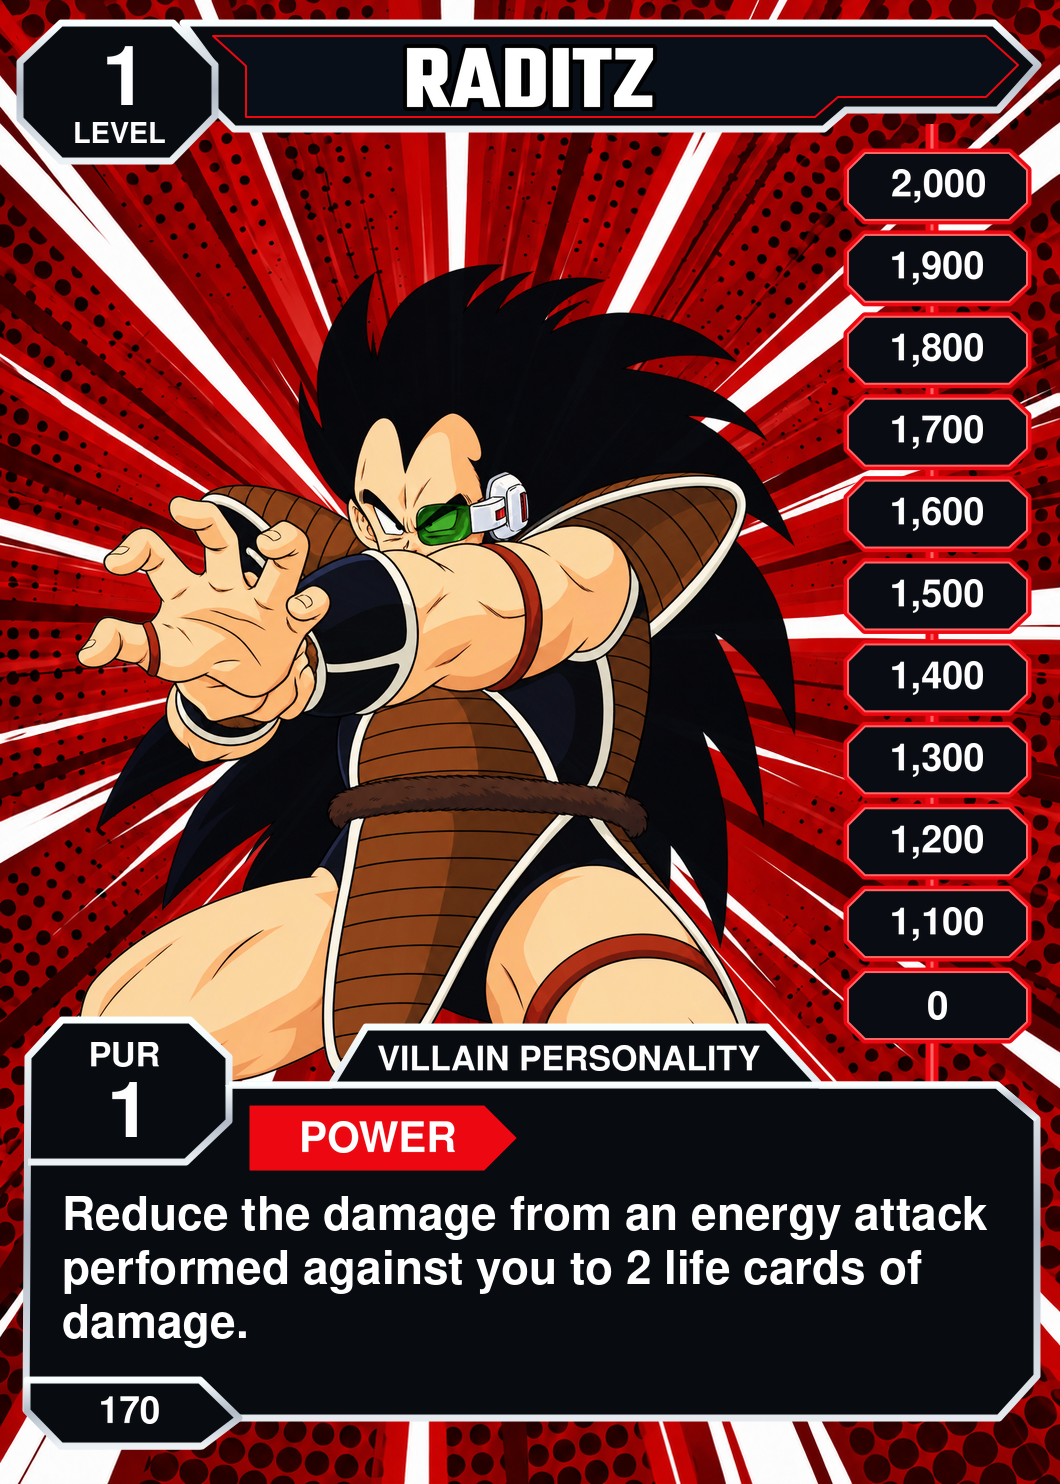
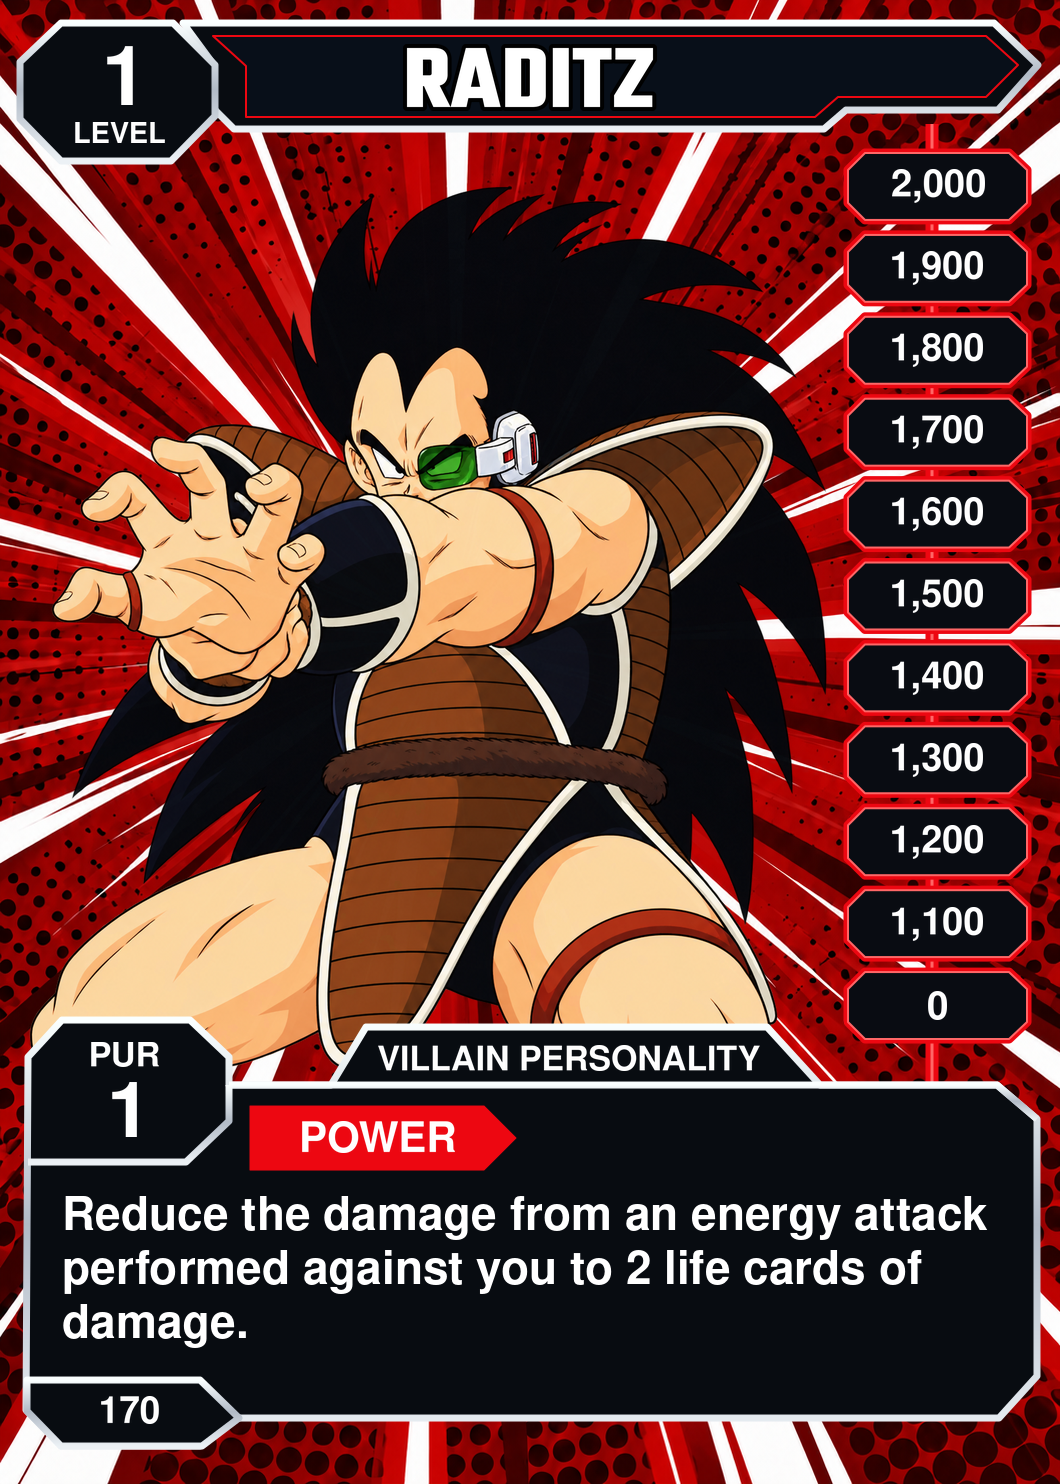
Enlarge and horizontally center personality artwork: batch 3 of 5

Changed region(s): [[0.0311, 0.124, 0.7783, 0.7439]]

diff --git a/public/cards/catalog.js b/public/cards/catalog.js
@@ -2178,7 +2178,7 @@ export const catalog = [
     "style": "Freestyle",
     "set": "Saiyan Saga",
     "status": "Ready",
-    "image": "/assets/cards/saiyan-168-krillin.webp?v=c53ddcbc8082",
+    "image": "/assets/cards/saiyan-168-krillin.webp?v=fb7451a89094",
     "source": "https://retrodbzccg.com/card-images/saiyan-saga-starter/",
     "width": 1060,
     "height": 1484
@@ -2191,7 +2191,7 @@ export const catalog = [
     "style": "Freestyle",
     "set": "Saiyan Saga",
     "status": "Ready",
-    "image": "/assets/cards/saiyan-169-krillin.webp?v=0936be09683b",
+    "image": "/assets/cards/saiyan-169-krillin.webp?v=73959237b79c",
     "source": "https://retrodbzccg.com/card-images/saiyan-saga-starter/",
     "width": 1060,
     "height": 1484
@@ -2204,7 +2204,7 @@ export const catalog = [
     "style": "Freestyle",
     "set": "Saiyan Saga",
     "status": "Ready",
-    "image": "/assets/cards/saiyan-170-raditz.webp?v=b6f8d999e538",
+    "image": "/assets/cards/saiyan-170-raditz.webp?v=dfcc8767ed1a",
     "source": "https://retrodbzccg.com/card-images/saiyan-saga-starter/",
     "width": 1060,
     "height": 1484
@@ -2217,7 +2217,7 @@ export const catalog = [
     "style": "Freestyle",
     "set": "Saiyan Saga",
     "status": "Ready",
-    "image": "/assets/cards/saiyan-171-raditz.webp?v=fb9088b969bd",
+    "image": "/assets/cards/saiyan-171-raditz.webp?v=6879a4a08aec",
     "source": "https://retrodbzccg.com/card-images/saiyan-saga-starter/",
     "width": 1060,
     "height": 1484
@@ -2230,7 +2230,7 @@ export const catalog = [
     "style": "Freestyle",
     "set": "Saiyan Saga",
     "status": "Ready",
-    "image": "/assets/cards/saiyan-172-raditz.webp?v=3e3e617cb065",
+    "image": "/assets/cards/saiyan-172-raditz.webp?v=6cc9aac2dd7c",
     "source": "https://retrodbzccg.com/card-images/saiyan-saga-starter/",
     "width": 1060,
     "height": 1484
@@ -2243,7 +2243,7 @@ export const catalog = [
     "style": "Freestyle",
     "set": "Saiyan Saga",
     "status": "Ready",
-    "image": "/assets/cards/saiyan-173-vegeta.webp?v=769d4cecafed",
+    "image": "/assets/cards/saiyan-173-vegeta.webp?v=eb49ec17220e",
     "source": "https://retrodbzccg.com/card-images/saiyan-saga-starter/",
     "width": 1060,
     "height": 1484
@@ -2256,7 +2256,7 @@ export const catalog = [
     "style": "Freestyle",
     "set": "Saiyan Saga",
     "status": "Ready",
-    "image": "/assets/cards/saiyan-174-vegeta.webp?v=729d14b7084b",
+    "image": "/assets/cards/saiyan-174-vegeta.webp?v=325937e41ba8",
     "source": "https://retrodbzccg.com/card-images/saiyan-saga-starter/",
     "width": 1060,
     "height": 1484
@@ -2269,7 +2269,7 @@ export const catalog = [
     "style": "Freestyle",
     "set": "Saiyan Saga",
     "status": "Ready",
-    "image": "/assets/cards/saiyan-175-vegeta.webp?v=c408255e7cea",
+    "image": "/assets/cards/saiyan-175-vegeta.webp?v=020d2ce0abc2",
     "source": "https://retrodbzccg.com/card-images/saiyan-saga-starter/",
     "width": 1060,
     "height": 1484
@@ -2282,7 +2282,7 @@ export const catalog = [
     "style": "Freestyle",
     "set": "Saiyan Saga",
     "status": "Ready",
-    "image": "/assets/cards/saiyan-176-nappa.webp?v=c0b8afe10b3f",
+    "image": "/assets/cards/saiyan-176-nappa.webp?v=a75096132ffa",
     "source": "https://retrodbzccg.com/card-images/saiyan-saga-starter/",
     "width": 1060,
     "height": 1484
@@ -2295,7 +2295,7 @@ export const catalog = [
     "style": "Freestyle",
     "set": "Saiyan Saga",
     "status": "Ready",
-    "image": "/assets/cards/saiyan-177-nappa.webp?v=f48f38690434",
+    "image": "/assets/cards/saiyan-177-nappa.webp?v=314d506e7ad3",
     "source": "https://retrodbzccg.com/card-images/saiyan-saga-starter/",
     "width": 1060,
     "height": 1484
